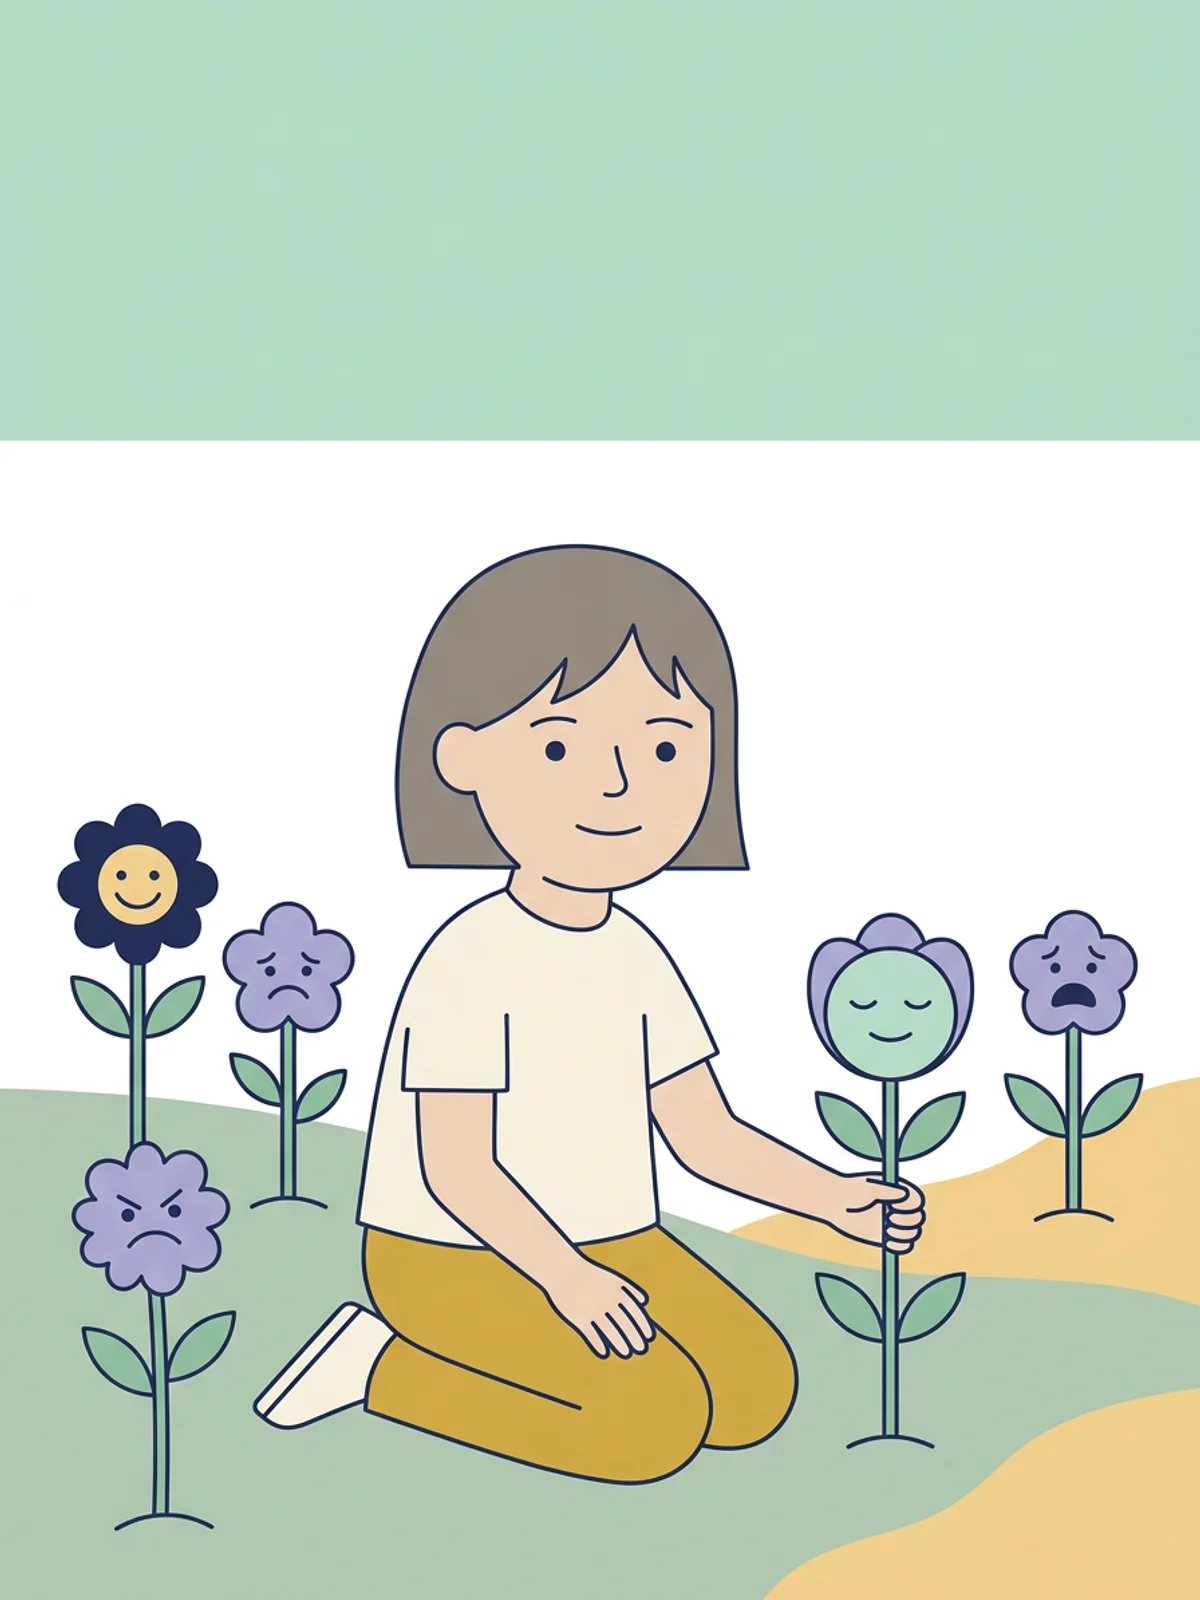
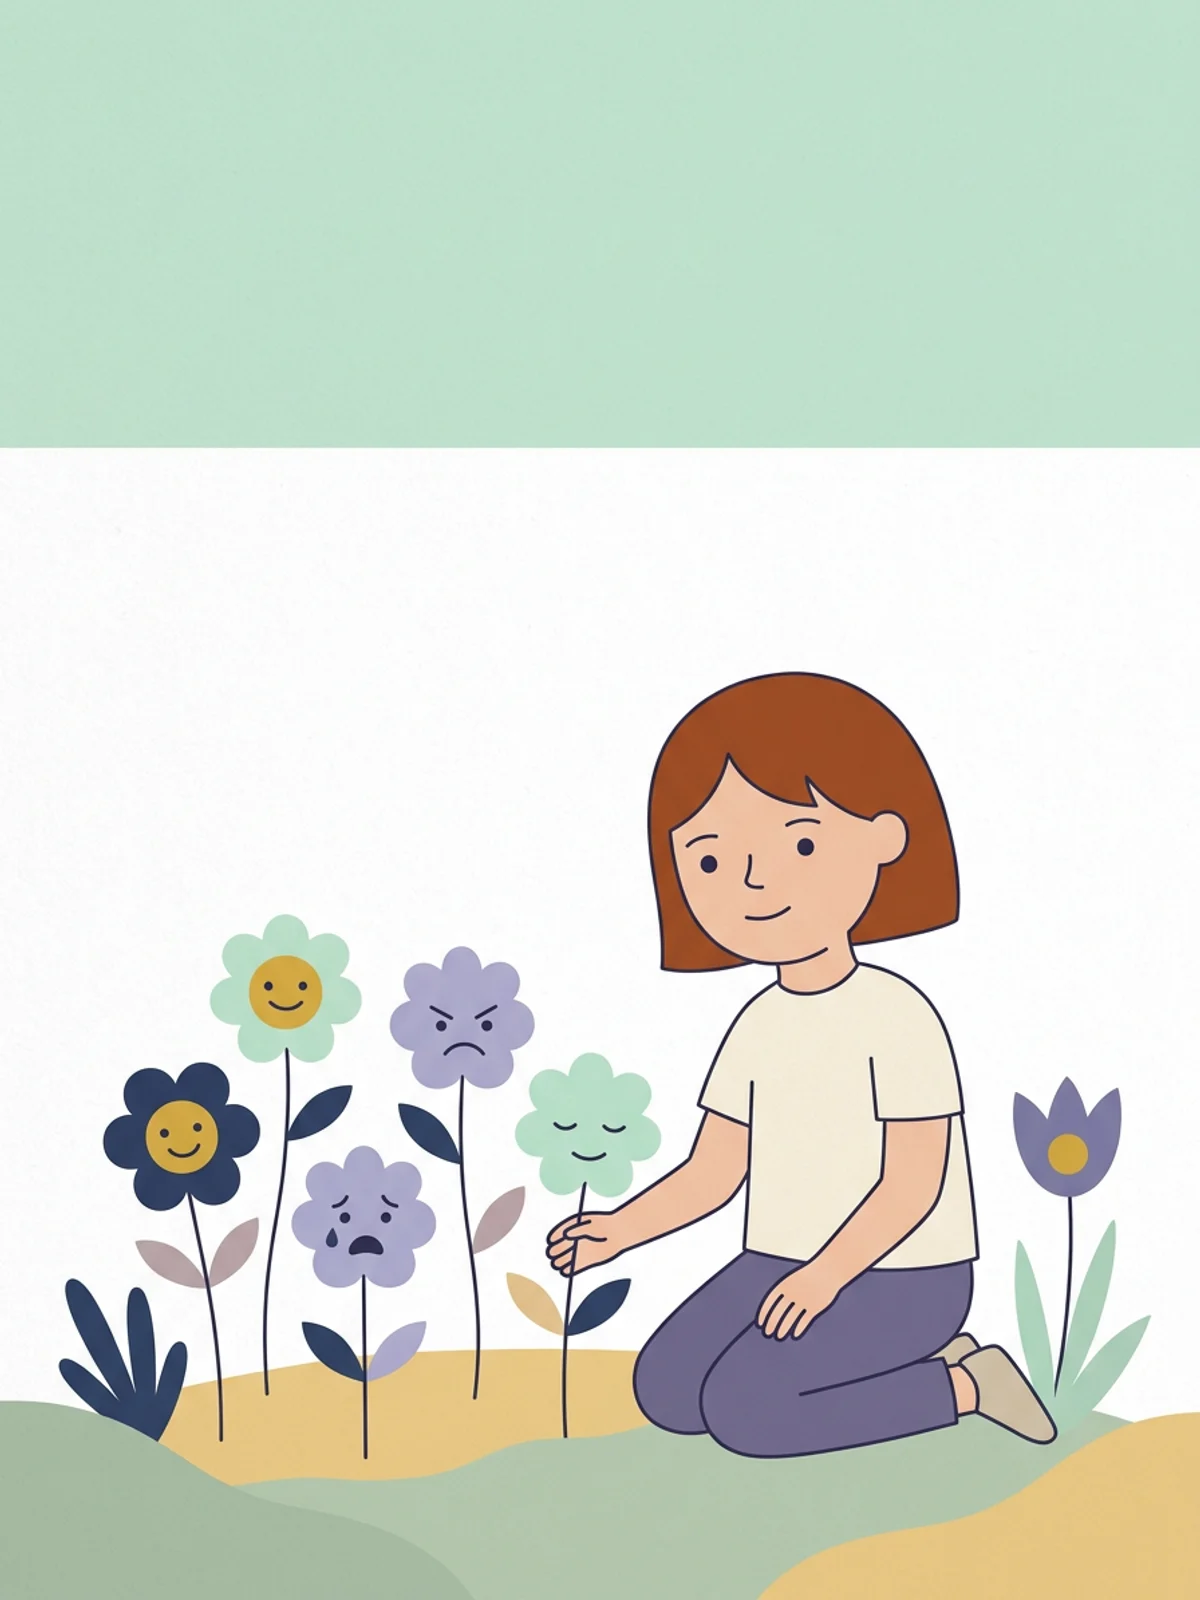
Profesionales: niño genérico con pelo castaño, 21 portadas (DECISIONS 269)
Claude-Session: https://claude.ai/code/session_01PcRD3uFYBq84axDNUisoiR

diff --git a/packages/providers/scripts/generate-brand-images.ts b/packages/providers/scripts/generate-brand-images.ts
@@ -86,7 +86,8 @@ const at = (name: keyof typeof KID, age: number) =>
 const BABY = `Picture-book illustration for babies and toddlers in matte editorial gouache. Warm, softened palette: deep muted navy, terracotta, ochre mustard, sage green, dusty coral and warm cream, with one accent color per image; no pure primary red, blue or yellow, no neon, no candy colors. Contrast comes from dark against light values (navy against cream), not from saturation. Very simple shapes, a single main element on a calm, slightly textured background, a large friendly face. Hand-made edges, visible brush texture and paper grain; line work in dark warm brown only where needed, thin-to-thick and uneven, never a uniform black vector outline. Toddler proportions (big head, short limbs). Individual face: small dark eyes without glossy highlights, natural cheeks, no perfect round blush circles.`;
 const READER = `Gouache editorial children's illustration with comic-book energy. Opaque matte paint with visible brush texture, limited palette of navy, coral, mustard, mint. Taller proportions (head about one fifth of the body), diagonal dynamic composition, the child in motion, humor, hand-drawn motion lines, no text or lettering of any kind. Expressive faces with character.`;
 const NOVEL = `Graphic-novel illustration for pre-teen readers. Firm black ink linework with flat color fills, deep navy and terracotta palette, realistic proportions (head about one sixth of the body), cinematic low-angle framing, suspense and intrigue. Nothing cute, nothing babyish, no rounded cartoon face.`;
-const GENERIC = 'a child with short neutral brown hair and a plain t-shirt';
+const GENERIC =
+  'a child with short warm chestnut-brown hair (clearly a child, never grey or ash hair) and a plain t-shirt';
 
 interface Job {
   file: string;
@@ -401,7 +402,7 @@ const JOBS: Job[] = [
     'el-rincon-de-la-calma',
     MINIMAL,
     'lavender',
-    `${GENERIC} sits cross-legged on a round cushion in a cozy corner with a small lamp and a potted plant, eyes closed, both hands resting on the belly. Calm and quiet.`,
+    `${GENERIC} sits cross-legged on a round cushion in a cozy corner with a small lamp and a potted plant, eyes closed, both hands resting on the belly. Calm and quiet. Full-bleed illustration that fills the whole canvas edge to edge: do not draw a book, card, page, frame, border or mockup inside the image.`,
     true,
   ),
   cover(
@@ -415,7 +416,7 @@ const JOBS: Job[] = [
     'mi-termometro-verde-amarillo-rojo',
     MINIMAL,
     'cream',
-    `${GENERIC} stands beside a tall flat thermometer drawn with three zones in green, yellow and red, pointing at the green zone and smiling. No numbers or letters.`,
+    `${GENERIC} stands beside a tall flat thermometer drawn with three zones in green, yellow and red, pointing at the green zone and smiling. No numbers or letters. Full-bleed illustration that fills the whole canvas edge to edge: do not draw a book, card, page, frame, border or mockup inside the image.`,
     true,
   ),
   cover(
@@ -464,7 +465,7 @@ const JOBS: Job[] = [
     'el-sonido-escondido',
     MINIMAL,
     'mint',
-    `${GENERIC} with a hand cupped behind the ear, listening carefully, small round flat shapes floating around as if hidden sounds, curious smile.`,
+    `${GENERIC} with a hand cupped behind the ear, listening carefully, small round flat shapes floating around as if hidden sounds, curious smile. Full-bleed illustration that fills the whole canvas edge to edge: do not draw a book, card, page, frame, border or mockup inside the image.`,
     true,
   ),
   cover(
@@ -520,7 +521,7 @@ const JOBS: Job[] = [
     'chau-panal-pro',
     MINIMAL,
     'mint',
-    `${GENERIC} stands in a yellow t-shirt and simple trousers beside a small closed potty, one arm raised proudly, a folded diaper on the floor. Clothed, calm, minimal graphic style.`,
+    `${GENERIC} stands in a yellow t-shirt and simple trousers beside a small closed potty, one arm raised proudly, a folded diaper on the floor. Clothed, calm, minimal graphic style. Full-bleed illustration that fills the whole canvas edge to edge: do not draw a book, card, page, frame, border or mockup inside the image.`,
     true,
   ),
   // ---- Celebraciones -------------------------------------------------------------------------

diff --git a/docs/DECISIONS.md b/docs/DECISIONS.md
@@ -2853,3 +2853,9 @@ Sebas, 18 nov 2026: «revisa la totalidad de los prompts… personajes que tenga
 ## 268 — Métricas por estilo de ilustración
 
 Sebas, 18 nov 2026 («2 ok»): medir qué estilo eligen y cuál compran, para decidir con datos y no solo con estudios de mercado. Las métricas del día suman `styles` por slug: elegido (libros que llegaron a la lámina), muestras completas, compras pagadas y ventas en USD. Los libros sin estilo van como `sin-estilo`. La portada del admin muestra la tabla «Por estilo de ilustración». `METRICS_VERSION` pasa a 3 para que los días asentados se recalculen con el estilo.
+
+## 269 — Profesionales: el niño genérico con pelo castaño, no gris
+
+- **Fecha:** 2026-11-18. Pedido por Sebas: en unas 20 portadas de Profesionales el niño genérico salía con pelo gris o ceniza y parecía un adulto mayor.
+- **Cambio:** `GENERIC` en `generate-brand-images.ts` pide «short warm chestnut-brown hair (clearly a child, never grey or ash hair)». Cuatro escenas que dibujaban un libro maqueta dentro de la portada (El rincón de la calma, Mi termómetro, El sonido escondido, Chau pañal pro) piden ahora «full-bleed», sin libro, tarjeta ni marco adentro.
+- **Portadas:** se regeneran las 21 que usaban el niño genérico con pelo gris. «Cuando todo es demasiado ruido» y «Las letras que bailan» ya tenían pelo castaño y quedan. Costo: USD 1,68 (21 más 4 reintentos).
